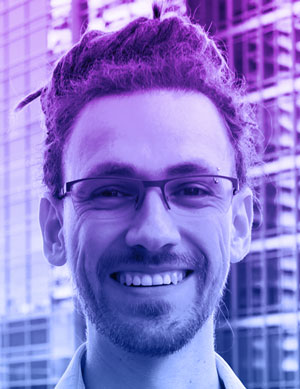
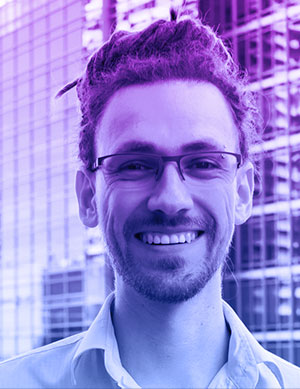
tweaked some css, fixed telford crop

diff --git a/docs/assets/css/site.min.css b/docs/assets/css/site.min.css
@@ -1,1 +1,1 @@
-header{padding:3rem 1rem 1rem;text-align:center}header h1{display:inline;margin:0}.logo .heart{max-width:34.5rem;max-height:5.35rem}.header{text-align:center}.header .headline{font-size:1.2rem}.header .body{font-family:Lora,serif;font-style:italic}.header .btn{margin-top:2rem}@media (min-width:500px){.header .headline{font-size:2rem}}.grid,.wrapper{display:-ms-grid;display:grid;-ms-grid-columns:([col-start] 1fr)[12];grid-template-columns:repeat(12,[col-start] 1fr);max-width:75rem;padding:0;margin:0}.gridgap{grid-gap:8px}.grid,footer.wrapper,main.wrapper{margin:0 auto;padding:0 1rem}@media (min-width:800px){.gridgap{grid-gap:16px}}.grid{position:fixed;left:0;right:0;z-index:-1}.col,.grid{top:0;bottom:0;height:100%}.col{background:var(--bg-1)}.row,.row-c,.row-h,.row-m{grid-column:col-start/-1}@media (min-width:480px){.row-m{grid-column:col-start 2/-2}}@media (min-width:800px){.content .content.row-h,.content.row-h,.row-c,.row-h,.row-m{grid-column:col-start/-1}}@media (min-width:1050px){.row-c{grid-column:col-start 3/-3}.content.row-h,.row-h{grid-column:col-start 2/-1}.row-m{grid-column:col-start 2/-2}.content .content.row-h{grid-column:col-start 2/-1}}@-webkit-keyframes hue{0%{fill:var(--action)}12.5%{fill:#9400d3}25%{fill:indigo}37.5%{fill:#00f}50%{fill:#0f0}62.5%{fill:#ff0}75%{fill:#ff7f00}87.5%{fill:red}to{fill:var(--action)}}@keyframes hue{0%{fill:var(--action)}12.5%{fill:#9400d3}25%{fill:indigo}37.5%{fill:#00f}50%{fill:#0f0}62.5%{fill:#ff0}75%{fill:#ff7f00}87.5%{fill:red}to{fill:var(--action)}}.heart:hover .l{-webkit-animation:hue 6s linear infinite;animation:hue 6s linear infinite}.heart:hover .l2{-webkit-animation-delay:.5s;animation-delay:.5s}.heart:hover .l3{-webkit-animation-delay:1s;animation-delay:1s}.heart:hover .l4{-webkit-animation-delay:1.5s;animation-delay:1.5s}.heart:hover .l5{-webkit-animation-delay:2s;animation-delay:2s}.heart:hover .l6{-webkit-animation-delay:2.5s;animation-delay:2.5s}.heart:hover .l7{-webkit-animation-delay:3s;animation-delay:3s}.heart:hover .l8{-webkit-animation-delay:3.5s;animation-delay:3.5s}.heart:hover .l9{-webkit-animation-delay:4s;animation-delay:4s}.heart:hover .l10{-webkit-animation-delay:4.5s;animation-delay:4.5s}.heart:hover .l11{-webkit-animation-delay:5s;animation-delay:5s}.heart:hover .l12{-webkit-animation-delay:5.5s;animation-delay:5.5s}.heart:hover .l13{-webkit-animation-delay:6s;animation-delay:6s}footer.wrapper{text-align:center;margin-top:2rem;color:var(--border)}.footer-logo-wrapper{position:relative;display:inline-block;margin:0 auto}.footer-body,.footer-gem,.footer-logo{grid-column:col-start/-1}.footer-logo{position:relative;overflow:hidden}.heart-logo{width:200px;z-index:2}.heart-logo g,.heart-logo path{fill:var(--border)}.footer-logo-wrapper:after,.footer-logo-wrapper:before{content:"";position:absolute;right:216px;top:12px;width:75rem;border-top:6px solid var(--border);z-index:1}.footer-logo-wrapper:after{left:216px;right:auto}.footer-body a{color:var(--border)}.footer-body a:hover{color:var(--highlight)}.footer-body p{margin:0}.heart-gem{margin:30rem 0 10rem;display:inline-block;width:15rem;height:15rem}.heart-gem .b{-webkit-animation:hue 60s linear infinite;animation:hue 60s linear infinite}.heart-gem:hover .b{fill:var(--fg);-webkit-animation:none;animation:none}@media (min-width:480px){.footer-body,.footer-gem,.footer-logo{grid-column:col-start 2/-2}}@media (min-width:780px){.footer-body,.footer-gem,.footer-logo{grid-column:col-start/-1}}@media (min-width:1000px){.heart-gem{width:25rem;height:25rem}}@media (min-width:1050px){.footer-body,.footer-gem,.footer-logo{grid-column:col-start 2/-2}}nav{display:none}.contentHeadline{border-top:.5rem solid var(--fg);padding:1rem 0;margin:2rem 0 0;font-weight:700;font-size:3.8rem}@media (min-width:800px){nav{display:block;grid-column:col-start 10/-1}.content,nav{-ms-grid-row:1;grid-row:1}.content .content{grid-row:initial}nav .navlist{position:-webkit-sticky;position:sticky;top:0}}@media (min-width:1050px){nav{grid-column:col-start 10/-2}}.content{display:-ms-grid;display:grid;-ms-grid-columns:([col-start] 1fr)[9];grid-template-columns:repeat(9,[col-start] 1fr);grid-column:col-start/-1}@media (min-width:480px){.content{grid-column:col-start 2/-2}.content .content{grid-column:col-start/-1}}@media (min-width:800px){.content{grid-column:col-start/10}}.wrapper.content-wrapper{margin-top:1rem}.navlist{list-style:none;border-top:.5rem solid var(--fg);padding:0;margin:2rem 0 0}.navlist li{font-weight:700}.navlist li+li{border-top:.5rem solid var(--border-1)}.navlist li a{display:block;padding:1rem 0}.btn,.tito-tickets-button,a.btn{display:inline-block;-webkit-appearance:none;-moz-appearance:none;appearance:none;border:none;background:var(--action);padding:1rem;border-radius:2px;text-transform:uppercase;font-size:.875rem;font-weight:700;color:var(--action-fg);text-align:center;cursor:pointer;text-decoration:none}.btn:hover,.tito-tickets-button:hover{color:var(--action-fg);text-decoration:underline}.tito-tickets-button>.btn{padding:0;pointer-events:none}.btn.btn--muted,.btn.btn--muted:hover{background:var(--fg);color:var(--bg)}.btn--lg,a.btn--lg{font-size:1.2rem;padding:1rem 2rem}.btn--disabled,.btn.btn--disabled:hover,.btn:disabled,.btn:disabled:hover,.tito-tickets-button:disabled,.tito-tickets-button:disabled:hover,a.btn--disabled{background-color:var(--border);color:var(--fg);cursor:not-allowed;text-decoration:none;text-decoration:line-through}.goldSponsors{margin-bottom:-2rem}.goldSponsors-content{display:-webkit-box;display:-ms-flexbox;display:flex;-webkit-box-orient:horizontal;-webkit-box-direction:normal;-ms-flex-flow:row wrap;flex-flow:row wrap;-ms-flex-pack:distribute;justify-content:space-around;-webkit-box-align:center;-ms-flex-align:center;align-items:center;margin-top:2rem;background-color:var(--border-1);padding:1rem 2rem 1.25rem}.goldSponsors-img{max-width:7rem;max-height:3rem}.goldSponsors-content a{margin:1rem 1rem 0}.schedule-body,.schedule-time{grid-column:col-start/-1}.schedule-time{font-weight:700;border-top:.5rem solid var(--border-1);padding-top:1.5rem}.schedule-time .muted{font-weight:400}.schedule-body{display:-ms-grid;display:grid;-ms-grid-columns:([col-start] 1fr)[9];grid-template-columns:repeat(9,[col-start] 1fr);margin-bottom:1.5rem;margin-top:.75rem}.schedule-title{color:var(--highlight);font-weight:700}.schedule-details,.schedule-img,.schedule-item,.schedule-title{grid-column:col-start/-1}.schedule-img{position:relative}.schedule-img img{width:186px;border-radius:6px;max-width:100%}.schedule-name,.schedule-role{margin:0}.schedule-keynote{position:absolute;bottom:1rem;left:0;display:block;font-weight:700;background:var(--action);color:var(--bg);padding:.2rem .4rem;letter-spacing:normal;text-transform:none;margin-right:.5rem}.schedule-name{text-transform:uppercase;letter-spacing:2.6px;font-weight:700}.schedule-role{margin-top:.5rem;color:var(--highlight);font-family:Lora,serif;font-style:italic;font-weight:700}.schedule-description{margin-top:1rem;line-height:1.4}@media (min-width:1050px){.schedule-body{-ms-grid-columns:([col-start] 1fr)[8];grid-template-columns:repeat(8,[col-start] 1fr);margin-top:0}.schedule-time{grid-column:col-start/2;border:none}.schedule-body{grid-column:col-start 2/-1}.schedule-time{padding-top:2rem;text-align:right}.schedule-body{border-top:.5rem solid var(--border-1);padding-top:1.5rem}.schedule-time .muted{display:block}.schedule-img{grid-column:col-start/3;max-width:100%;width:auto}.schedule-details{grid-column:col-start 3/-1}}.tickets-links,.tickets-text{grid-column:col-start/-1}.ticket-item{border-top:.5rem solid var(--border-1);padding-top:1.5rem}.tickets-headline{margin:0;font-size:1.75rem;font-weight:900}.tickets-subline{font-family:Lora,serif;font-style:italic}.tickets-links .muted{display:block;margin-top:.5rem}@media (min-width:1050px){.ticket-item{-ms-grid-columns:([col-start] 1fr)[8];grid-template-columns:repeat(8,[col-start] 1fr)}.tickets-text{grid-column:col-start/-4}.tickets-links{grid-column:col-start 7/-1}.tickets-links .btn,.tickets-links .tito-tickets-button{-webkit-box-sizing:border-box;box-sizing:border-box;display:block;width:100%}.tickets-links .muted{text-align:center}}.location-map{height:20rem}.section *{grid-column:col-start/-1}.section-banner{height:180px;background-position:top;background-size:auto 180px;margin-bottom:2rem}.section p+ol,.section p+ul{margin-top:-.125rem}.section li,.section p{max-width:42em}.section li+li{margin-top:.5rem}.section p{margin:.5rem 0}.section ol,.section ul{padding-left:1rem}.section h4,.section h5,.section h6{margin-top:0}.charity-logos{list-style:none;margin:0;padding:0;text-align:center}.charity-logos li{display:inline-block;margin:0 1rem 1rem 0}.charity-logos img{display:inline-block;max-width:150px}.charity .btn{margin-top:1.5rem}@media (min-width:650px){.charity-logos{float:right;padding:0 0 0 1rem}}.sponsortier-blurb,.sponsortier-logo{grid-column:col-start/-1}.sponsortier-logo svg{width:225px;height:63px}.sponsortier-blurb p:first-child{margin-top:0}.sponsortier-item:first-child{border-top:.5rem solid var(--border-1);padding-top:1.5rem}.sponsortier-item+.sponsortier-item{margin-top:1.5rem}@media (min-width:1050px){.sponsortier-item{-ms-grid-columns:([col-start] 1fr)[8];grid-template-columns:repeat(8,[col-start] 1fr)}}@media (min-width:650px){.sponsortier-logo{grid-column:col-start/3}.sponsortier-blurb{grid-column:col-start 3/-1}.sponsortier-logo svg{max-width:100%;width:auto;height:63px}.sponsortier-item+.sponsortier-item{margin-top:0}}.organiser{list-style:none;padding:0;margin:0}.organiser p{margin:.5rem 0}.organiser-item+.organiser-item{margin-top:2rem}.organiser-img{max-width:100%;width:150px;border-radius:6px;grid-column:col-start/3}.organiser-details{grid-column:col-start 3/-1}.organiser p.organiser-name{margin-top:0;font-size:1.125rem;text-transform:uppercase;letter-spacing:2.6px;font-weight:700}.organiser-company,.organiser-company a{font-size:1.125rem;font-weight:700;font-style:italic;font-family:Lora,serif;color:var(--highlight)}@media (min-width:480px){.organiser-item+.organiser-item{margin-top:1.5rem}.organiser-item{display:-ms-grid;display:grid;-ms-grid-columns:([col-start] 1fr)[10];grid-template-columns:repeat(10,[col-start] 1fr)}}@media (min-width:780px){.organiser p{margin:1rem 0}.organiser-item{-ms-grid-columns:([col-start] 1fr)[9];grid-template-columns:repeat(9,[col-start] 1fr)}}@media (min-width:1050px){.organiser-item{-ms-grid-columns:([col-start] 1fr)[8];grid-template-columns:repeat(8,[col-start] 1fr)}}.workshop-name,.workshop-workshop{font-size:1.5rem}.workshop-name{margin-bottom:.25rem;font-weight:700;font-style:italic;font-family:Lora,serif;color:var(--highlight)}.workshop-abstract{font-weight:700;font-size:1.2rem;margin-bottom:1rem;max-width:43em;line-height:1.3}.workshop .btn{margin-top:1.5rem}
+header{padding:3rem 1rem 1rem;text-align:center}header h1{display:inline;margin:0}.logo .heart{max-width:34.5rem;max-height:5.35rem}.header{text-align:center}.header .headline{font-size:1.2rem}.header .body{font-family:Lora,serif;font-style:italic}.header .btn{margin-top:2rem}@media (min-width:500px){.header .headline{font-size:2rem}}.grid,.wrapper{display:-ms-grid;display:grid;-ms-grid-columns:([col-start] 1fr)[12];grid-template-columns:repeat(12,[col-start] 1fr);max-width:75rem;padding:0;margin:0}.gridgap{grid-gap:8px}.grid,footer.wrapper,main.wrapper{margin:0 auto;padding:0 1rem}@media (min-width:800px){.gridgap{grid-gap:16px}}.grid{position:fixed;left:0;right:0;z-index:-1}.col,.grid{top:0;bottom:0;height:100%}.col{background:var(--bg-1)}.row,.row-c,.row-h,.row-m{grid-column:col-start/-1}@media (min-width:480px){.row-m{grid-column:col-start 2/-2}}@media (min-width:800px){.content .content.row-h,.content.row-h,.row-c,.row-h,.row-m{grid-column:col-start/-1}}@media (min-width:1050px){.row-c{grid-column:col-start 3/-3}.content.row-h,.row-h{grid-column:col-start 2/-1}.row-m{grid-column:col-start 2/-2}.content .content.row-h{grid-column:col-start 2/-1}}@-webkit-keyframes hue{0%{fill:var(--action)}12.5%{fill:#9400d3}25%{fill:indigo}37.5%{fill:#00f}50%{fill:#0f0}62.5%{fill:#ff0}75%{fill:#ff7f00}87.5%{fill:red}to{fill:var(--action)}}@keyframes hue{0%{fill:var(--action)}12.5%{fill:#9400d3}25%{fill:indigo}37.5%{fill:#00f}50%{fill:#0f0}62.5%{fill:#ff0}75%{fill:#ff7f00}87.5%{fill:red}to{fill:var(--action)}}.heart:hover .l{-webkit-animation:hue 6s linear infinite;animation:hue 6s linear infinite}.heart:hover .l2{-webkit-animation-delay:.5s;animation-delay:.5s}.heart:hover .l3{-webkit-animation-delay:1s;animation-delay:1s}.heart:hover .l4{-webkit-animation-delay:1.5s;animation-delay:1.5s}.heart:hover .l5{-webkit-animation-delay:2s;animation-delay:2s}.heart:hover .l6{-webkit-animation-delay:2.5s;animation-delay:2.5s}.heart:hover .l7{-webkit-animation-delay:3s;animation-delay:3s}.heart:hover .l8{-webkit-animation-delay:3.5s;animation-delay:3.5s}.heart:hover .l9{-webkit-animation-delay:4s;animation-delay:4s}.heart:hover .l10{-webkit-animation-delay:4.5s;animation-delay:4.5s}.heart:hover .l11{-webkit-animation-delay:5s;animation-delay:5s}.heart:hover .l12{-webkit-animation-delay:5.5s;animation-delay:5.5s}.heart:hover .l13{-webkit-animation-delay:6s;animation-delay:6s}footer.wrapper{text-align:center;margin-top:4rem;color:var(--border)}.footer-logo-wrapper{position:relative;display:inline-block;margin:0 auto}.footer-body,.footer-gem,.footer-logo{grid-column:col-start/-1}.footer-logo{position:relative;overflow:hidden}.heart-logo{width:200px;z-index:2}.heart-logo g,.heart-logo path{fill:var(--border)}.footer-logo-wrapper:after,.footer-logo-wrapper:before{content:"";position:absolute;right:216px;top:12px;width:75rem;border-top:6px solid var(--border);z-index:1}.footer-logo-wrapper:after{left:216px;right:auto}.footer-body a{color:var(--border)}.footer-body a:hover{color:var(--highlight)}.footer-body p{margin:0}.heart-gem{margin:60rem 0 10rem;display:inline-block;width:15rem;height:15rem}.heart-gem .b{-webkit-animation:hue 60s linear infinite;animation:hue 60s linear infinite}.heart-gem:hover .b{fill:var(--fg);-webkit-animation:none;animation:none}@media (min-width:480px){.footer-body,.footer-gem,.footer-logo{grid-column:col-start 2/-2}}@media (min-width:780px){.footer-body,.footer-gem,.footer-logo{grid-column:col-start/-1}}@media (min-width:1000px){.heart-gem{width:25rem;height:25rem}}@media (min-width:1050px){.footer-body,.footer-gem,.footer-logo{grid-column:col-start 2/-2}}nav{display:none}.contentHeadline{border-top:.5rem solid var(--fg);padding:1rem 0;margin:2rem 0 0;font-weight:700;font-size:3.8rem}@media (min-width:800px){nav{display:block;grid-column:col-start 10/-1}.content,nav{-ms-grid-row:1;grid-row:1}.content .content{grid-row:initial}nav .navlist{position:-webkit-sticky;position:sticky;top:0}}@media (min-width:1050px){nav{grid-column:col-start 10/-2}}.content{display:-ms-grid;display:grid;-ms-grid-columns:([col-start] 1fr)[9];grid-template-columns:repeat(9,[col-start] 1fr);grid-column:col-start/-1}@media (min-width:480px){.content{grid-column:col-start 2/-2}.content .content{grid-column:col-start/-1}}@media (min-width:800px){.content{grid-column:col-start/10}}.wrapper.content-wrapper{margin-top:1rem}.navlist{list-style:none;border-top:.5rem solid var(--fg);padding:0;margin:2rem 0 0}.navlist li{font-weight:700}.navlist li+li{border-top:.5rem solid var(--border-1)}.navlist li a{display:block;padding:1rem 0}.btn,.tito-tickets-button,a.btn{display:inline-block;-webkit-appearance:none;-moz-appearance:none;appearance:none;border:none;background:var(--action);padding:1rem;border-radius:2px;text-transform:uppercase;font-size:.875rem;font-weight:700;color:var(--action-fg);text-align:center;cursor:pointer;text-decoration:none}.btn:hover,.tito-tickets-button:hover{color:var(--action-fg);text-decoration:underline}.tito-tickets-button>.btn{padding:0;pointer-events:none}.btn.btn--muted,.btn.btn--muted:hover{background:var(--fg);color:var(--bg)}.btn--lg,a.btn--lg{font-size:1.2rem;padding:1rem 2rem}.btn--disabled,.btn.btn--disabled:hover,.btn:disabled,.btn:disabled:hover,.tito-tickets-button:disabled,.tito-tickets-button:disabled:hover,a.btn--disabled{background-color:var(--border);color:var(--fg);cursor:not-allowed;text-decoration:none;text-decoration:line-through}.goldSponsors{margin-bottom:-2rem}.goldSponsors-content{display:-webkit-box;display:-ms-flexbox;display:flex;-webkit-box-orient:horizontal;-webkit-box-direction:normal;-ms-flex-flow:row wrap;flex-flow:row wrap;-ms-flex-pack:distribute;justify-content:space-around;-webkit-box-align:center;-ms-flex-align:center;align-items:center;margin-top:2rem;background-color:var(--border-1);padding:1rem 2rem 1.25rem}.goldSponsors-img{max-width:7rem;max-height:3rem}.goldSponsors-content a{margin:1rem 1rem 0}.schedule-body,.schedule-time{grid-column:col-start/-1}.schedule-time{font-weight:700;border-top:.5rem solid var(--border-1);padding-top:1.5rem}.schedule-time .muted{font-weight:400}.schedule-body{display:-ms-grid;display:grid;-ms-grid-columns:([col-start] 1fr)[9];grid-template-columns:repeat(9,[col-start] 1fr);margin-bottom:1.5rem;margin-top:.75rem}.schedule-title{color:var(--highlight);font-weight:700}.schedule-details,.schedule-img,.schedule-item,.schedule-title{grid-column:col-start/-1}.schedule-img{position:relative}.schedule-img img{width:146px;border-radius:6px;max-width:100%}.schedule-name,.schedule-role{margin:0}.schedule-keynote{position:absolute;bottom:1rem;left:0;display:block;font-weight:700;background:var(--action);color:var(--bg);padding:.2rem .4rem;letter-spacing:normal;text-transform:none;margin-right:.5rem}.schedule-name{text-transform:uppercase;letter-spacing:2.6px;font-weight:700}.schedule-role{margin-top:.5rem;color:var(--highlight);font-family:Lora,serif;font-style:italic;font-weight:700}.schedule-description{margin-top:1rem;line-height:1.4}@media (min-width:1050px){.schedule-body{-ms-grid-columns:([col-start] 1fr)[8];grid-template-columns:repeat(8,[col-start] 1fr);margin-top:0}.schedule-time{grid-column:col-start/2;border:none}.schedule-body{grid-column:col-start 2/-1}.schedule-time{padding-top:2rem;text-align:right}.schedule-body{border-top:.5rem solid var(--border-1);padding-top:1.5rem}.schedule-time .muted{display:block}.schedule-img{grid-column:col-start/3;max-width:100%;width:auto}.schedule-details{grid-column:col-start 3/-1}}@media (min-width:480px){.schedule-img img{width:186px}}.tickets-links,.tickets-text{grid-column:col-start/-1}.ticket-item{border-top:.5rem solid var(--border-1);padding-top:1.5rem}.tickets-headline{margin:0;font-size:1.75rem;font-weight:900}.tickets-subline{font-family:Lora,serif;font-style:italic}.tickets-links .muted{display:block;margin-top:.5rem}@media (min-width:1050px){.ticket-item{-ms-grid-columns:([col-start] 1fr)[8];grid-template-columns:repeat(8,[col-start] 1fr)}.tickets-text{grid-column:col-start/-4}.tickets-links{grid-column:col-start 7/-1}.tickets-links .btn,.tickets-links .tito-tickets-button{-webkit-box-sizing:border-box;box-sizing:border-box;display:block;width:100%}.tickets-links .muted{text-align:center}}.location-map{height:20rem}.section *{grid-column:col-start/-1}.section-banner{height:180px;background-position:top;background-size:auto 180px;margin-bottom:2rem}.section p+ol,.section p+ul{margin-top:-.125rem}.section li,.section p{max-width:42em}.section li+li{margin-top:.5rem}.section p{margin:.5rem 0}.section ol,.section ul{padding-left:1rem}.section h4,.section h5,.section h6{margin-top:0}.charity-logos{list-style:none;margin:0;padding:0;text-align:center}.charity-logos li{display:inline-block;margin:0 1rem 1rem 0}.charity-logos img{display:inline-block;max-width:150px}.charity .btn{margin-top:1.5rem}@media (min-width:650px){.charity-logos{float:right;padding:0 0 0 1rem}}.sponsortier-blurb,.sponsortier-logo{grid-column:col-start/-1}.sponsortier-logo svg{width:225px;height:63px}.sponsortier-blurb p:first-child{margin-top:0}.sponsortier-item:first-child{border-top:.5rem solid var(--border-1);padding-top:1.5rem}.sponsortier-item+.sponsortier-item{margin-top:1.5rem}@media (min-width:1050px){.sponsortier-item{-ms-grid-columns:([col-start] 1fr)[8];grid-template-columns:repeat(8,[col-start] 1fr)}}@media (min-width:650px){.sponsortier-logo{grid-column:col-start/3}.sponsortier-blurb{grid-column:col-start 3/-1}.sponsortier-logo svg{max-width:100%;width:auto;height:63px}.sponsortier-item+.sponsortier-item{margin-top:0}}.organiser{list-style:none;padding:0;margin:0}.organiser p{margin:.5rem 0}.organiser-item+.organiser-item{margin-top:2rem}.organiser-img{max-width:100%;width:150px;border-radius:6px;grid-column:col-start/3}.organiser-details{grid-column:col-start 3/-1}.organiser p.organiser-name{margin-top:0;font-size:1.125rem;text-transform:uppercase;letter-spacing:2.6px;font-weight:700}.organiser-company,.organiser-company a{font-size:1.125rem;font-weight:700;font-style:italic;font-family:Lora,serif;color:var(--highlight)}@media (min-width:480px){.organiser-item+.organiser-item{margin-top:1.5rem}.organiser-item{display:-ms-grid;display:grid;-ms-grid-columns:([col-start] 1fr)[10];grid-template-columns:repeat(10,[col-start] 1fr)}}@media (min-width:780px){.organiser p{margin:1rem 0}.organiser-item{-ms-grid-columns:([col-start] 1fr)[9];grid-template-columns:repeat(9,[col-start] 1fr)}}@media (min-width:1050px){.organiser-item{-ms-grid-columns:([col-start] 1fr)[8];grid-template-columns:repeat(8,[col-start] 1fr)}}.workshop-name,.workshop-workshop{font-size:1.5rem}.workshop-name{margin-bottom:.25rem;font-weight:700;font-style:italic;font-family:Lora,serif;color:var(--highlight)}.workshop-abstract{font-weight:700;font-size:1.2rem;margin-bottom:1rem;max-width:43em;line-height:1.3}.workshop .btn{margin-top:1.5rem}

diff --git a/code/css/site.css b/code/css/site.css
@@ -141,7 +141,7 @@ footer.wrapper,
 /* ====================== FOOTER ====================== */
 footer.wrapper {
 	text-align: center;
-	margin-top: 2rem;
+	margin-top: 4rem;
 	color: var(--border);
 }
 .footer-logo-wrapper {
@@ -190,7 +190,7 @@ footer.wrapper {
 	margin: 0;
 }
 .heart-gem {
-	margin: 30rem 0 10rem 0;
+	margin: 60rem 0 10rem 0;
 	display: inline-block;
 	width: 15rem;
 	height: 15rem;
@@ -408,7 +408,7 @@ a.btn--disabled,
 	position: relative;
 }
 .schedule-img img {
-	width: 186px;
+	width: 146px;
 	border-radius: 6px;
 	max-width: 100%;
 }
@@ -475,6 +475,11 @@ a.btn--disabled,
 	}
 	.schedule-details {
 		grid-column: col-start 3 / -1;
+	}
+}
+@media (min-width: 480px) {
+	.schedule-img img {
+		width: 186px;
 	}
 }
 
